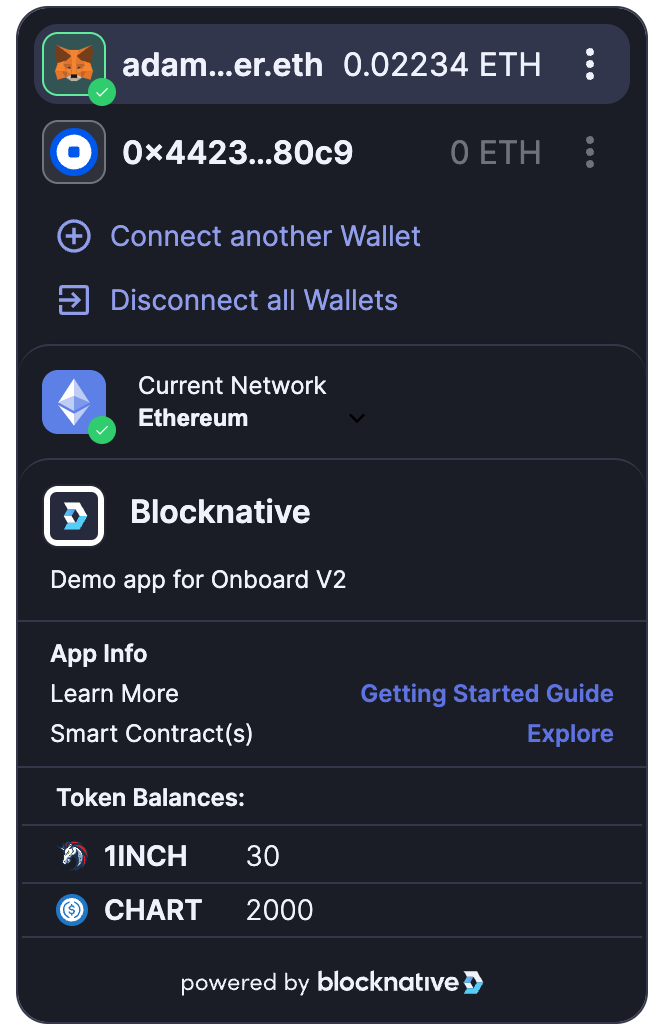
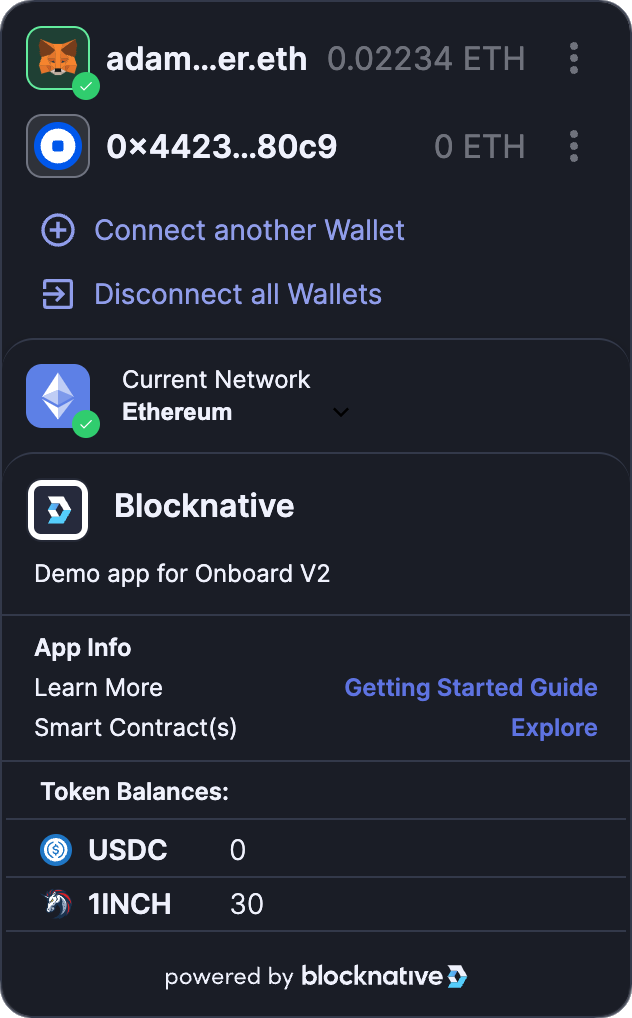
Add changes to docs to Develop  (#1693)
* Bump docs packages

* Update package versions for release

* Remove optional chain in trezor

* add safeheron to injected package readme

* add wallet as value to translate function in more areas of connect

* package updates

* add images

* text update

* Update packages/react/package.json

* Update packages/vue/package.json

* add screenshots to top level assets folder

* update react pkg

* fix merge conflict in react pkg

* fix vue pkg

* Release 2.21.4 (docs) (#1672)

* Reorder supported chains within the docs site (#1676)

* Reorder chains

* Remove cede from wallets group

* Remove merge conflict in yarn.lock

* Update packages/cede-store/README.md

* Fix image path in docs

* Update Account Center example with a better shot

* Spelling & web3 onboard cohesion update (#1694)

updating some spelling and web3 onboard referneces

* Update account center shot to show multiple wallets connected

* Update account center shot to show multiple wallets connected

---------

Changed region(s): [[0.0, 0.0, 1.0, 1.0], [0.0601, 0.2132, 0.6614, 0.2436]]

diff --git a/docs/src/lib/components/FeaturesSection.svelte b/docs/src/lib/components/FeaturesSection.svelte
@@ -23,7 +23,7 @@
       <TextBlock
         title={'Framework Agnostic'}
         subtitle={'Support all your favorite frameworks.'}
-        text={'Use web3-onboard with any of your favorite Javascript libraries.'}
+        text={'Use Web3 Onboard with any of your favorite Javascript libraries.'}
       >
         <Flexbox --wrap="wrap">
           <Button href="/docs" buttonStyle={'link'}>{'Learn More'}</Button>
@@ -71,7 +71,7 @@
       <TextBlock
         title={'Enable Multi-Wallet and Multi-Chain functionality with one library '}
         subtitle={''}
-        text={'Web3-Onboard is the quickest and easiest way to add multi-wallet and multi-chain support to your project. With built-in modules for more than 35 unique hardware and software wallets, Web3-Onboard saves you time and headaches.'}
+        text={'Web3 Onboard is the quickest and easiest way to add multi-wallet and multi-chain support to your project. With built-in modules for more than 35 unique hardware and software wallets, Web3 Onboard saves you time and headaches.'}
       >
         <Flexbox --wrap="wrap">
           <Button href="/docs" buttonStyle={'link'}>{'Learn More'}</Button>

diff --git a/docs/src/lib/components/ThemingSection.svelte b/docs/src/lib/components/ThemingSection.svelte
@@ -14,8 +14,8 @@
     <div class="flexbox">
       <TextBlock
         title={'Themeable'}
-        subtitle={'Powerfull customization options for all your needs'}
-        text={'Style web3-onboard to fit into your existing designs, or pick from our pre-made themes.'}
+        subtitle={'Powerful customization options for all your needs'}
+        text={'Style Web3 Onboard to fit into your existing designs, or pick from our pre-made themes.'}
       >
         <Flexbox --wrap="wrap">
           <Button href="/docs" buttonStyle={'link'}>{'Learn More'}</Button>

diff --git a/docs/src/lib/components/ThemeCustomizer.svelte b/docs/src/lib/components/ThemeCustomizer.svelte
@@ -274,7 +274,7 @@
     <div id="image_drop_area">
       <form class="drop-area-controls" on:submit|preventDefault={addURLToIFrame}>
         <div>
-          Enter your website url or drag and drop a screenshot to preview web3-onboard on your site
+          Enter your website url or drag and drop a screenshot to preview Web3 Onboard on your site
         </div>
         <!-- <div>Then click color circles above to change the theme.</div> -->
         <div class="website-input-row">

diff --git a/docs/src/lib/components/TestimonialSection.svelte b/docs/src/lib/components/TestimonialSection.svelte
@@ -4,7 +4,7 @@
 
 <section>
   <h1 class="text">
-    {"Who's using web3-onboard?"}
+    {"Who's using Web3 Onboard?"}
   </h1>
   <div>
     <img src={TestimonialsGraphic} alt="Web3-Onboard-users">

diff --git a/packages/cede-store/README.md b/packages/cede-store/README.md
@@ -1,6 +1,6 @@
 # @web3-onboard/cede-store
 
-CEX Wallet module for connecting cede.store to web3-onboard. Check out the cede.store Wallet Developer Docs [cede.store Wallet Developer Docs](https://docs.cede.store) for more information.
+CEX module for connecting cede.store through web3-onboard. Check out the [cede.store Wallet Developer Docs](https://docs.cede.store) for more information.
 
 
 As cede.store is not a traditional 1193 wallet behavior is a little different from other wallets that connect through web3-onboard in that there is no on-chain user address to interact with and there isn't a specific chain associated. With this behavior dapp devs will need to handle accordingly and differently from traditional 1193 wallets. The dapp dev can expect the connect account to not be shown as a hex value (or at all) and the chain to always be `0x0` when a user connects with cede.store for that specific wallet account.

diff --git a/docs/src/routes/docs/[...1]overview/[...1]introduction.md b/docs/src/routes/docs/[...1]overview/[...1]introduction.md
@@ -36,21 +36,20 @@ Web3-Onboard is the quickest and easiest way to add multi-wallet and multi-chain
 web3-onboard supports all EVM networks. Supporting a new network is simply a matter of adding its details in the Chains section upon initialization. For more information see [initialization options](../../docs/modules/core.md#options).
 
 - Ethereum 
+- Polygon
+- Base Goerli
+- Goerli
+- Sepolia
 - Arbitrum
 - Optimism
 - Avalanche
 - BNB Chain
 - Celo
-- Ethereum
 - Fantom
 - Gnosis Chain
 - Harmony One
 - Moonriver
-- Polygon
-- Goerli
-- Sepolia
-- Core Goerli
-- Any other EVM network
+- All other EVM network
 
 ### [Optional] Use an API key to fetch real time transaction data, balances & gas
 

diff --git a/docs/src/routes/docs/[...5]other/cede-store.md b/docs/src/routes/docs/[...5]other/cede-store.md
@@ -1,6 +1,6 @@
 # cede.store
 
-CEX Wallet module for connecting cede.store to web3-onboard. Check out the cede.store Wallet Developer Docs [cede.store Wallet Developer Docs](https://docs.cede.store) for more information.
+CEX Wallet module for connecting cede.store through web3-onboard. Check out the [cede.store Wallet Developer Docs](https://docs.cede.store) for more information.
 
 :::admonition type=warning
 Cede.store is not a traditional 1193 wallet, behavior is different in that there is no on-chain user address to interact with and there isn't a specific chain associated.

diff --git a/docs/src/routes/docs/[...3]modules/core.md b/docs/src/routes/docs/[...3]modules/core.md
@@ -1,5 +1,5 @@
 <script>
-  import accountCenter from '$lib/assets/account-center-example'
+  import accountCenter from '$lib/assets/account-center-example.png'
   import walletModal from '$lib/assets/connect-modal.svg'
   import notifyCustomImg from '$lib/assets/notify-custom-example.png'
   import notifyImg from '$lib/assets/notify-example.png'
